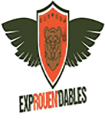
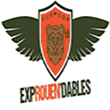
Changing design

diff --git a/style/main.css b/style/main.css
@@ -53,7 +53,7 @@ h1.title {
 .score-container, .best-container {
   position: relative;
   display: inline-block;
-  background: rgba(106,26,15,1);
+  background: rgba(246,175,50,1);
   padding: 15px 25px;
   font-size: 25px;
   height: 25px;
@@ -220,7 +220,7 @@ hr {
   margin-right: 15px;
   float: left;
   border-radius: 3px;
-  background: rgba(106, 26, 15, 0.7); }
+  background: rgba(246, 175, 50, 0.6); }
   .grid-cell:last-child {
     margin-right: 0; }
 
@@ -487,7 +487,7 @@ hr {
 
 .restart-button {
   display: inline-block;
-  background: rgba(106,26,15,1);
+  background: rgba(246,175,50,1);
   border-radius: 3px;
   padding: 0 20px;
   text-decoration: none;
